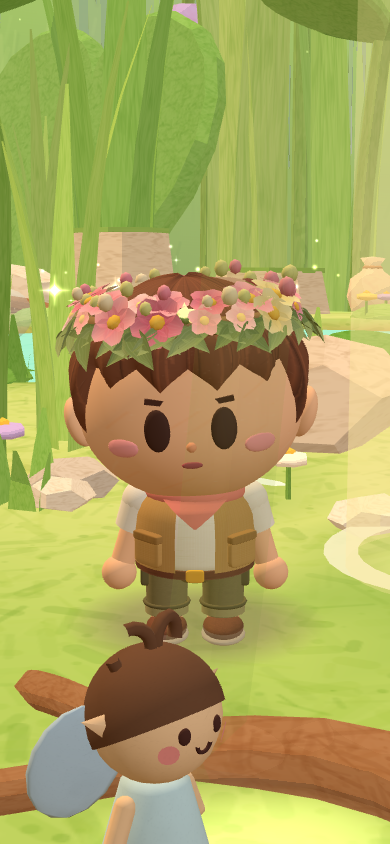
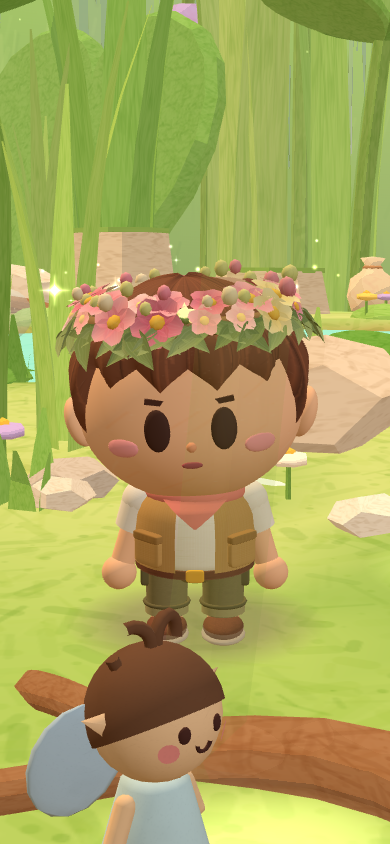
이야기 첫 장 카메라·배경음 이어짐·미션에만 빛 기둥·개미굴 발소리·이슬 모으기 빼기·아기 소금쟁이 새 모습·안내 문구 개미굴 모양
- 이야기 소개 카메라: 잎 지붕 아래에서 마을 전체 → 마을 길 → 물 위에서 선착장(위에서 보면 잎만 보였다)
- 배경음: 같은 곡이면 처음부터 하기로 구역을 다시 만들어도 끊기지 않고 이어짐
- 빛 기둥·이름표는 미션 목적지(사공·이슬배·높은 바위)에만, 클로버는 반짝임만
- 발소리는 개미굴 step 그대로(따로 만든 큰 소리 되돌림)
- 이슬 모으기 돌발 삭제: 클로버를 돌리면 이슬방울이 배에 쏙 → '이슬배가 준비됐어요!' 알림(아무 키·누르기로 닫힘)
- 아기 소금쟁이: 받은 그림대로(연하늘 달걀 몸·청록 마디 다리·발밑 물결), 카드·가방 그림 assets/cards/fairy/strider.webp
- 안내 문구·할 일 안내: 어두운 반투명 알약 + Gowun Dodum

diff --git a/index.html b/index.html
@@ -118,65 +118,65 @@ body.wl-world .bar .hint:not(#stats){display:none} /* 세계 구역에서는 아
 </div>
 
 <script id="wl-vercheck">fetch('version.json?t='+Date.now(),{cache:'no-store'}).then(r=>r.json()).then(j=>{if(j.v&&j.v!==window.WL_V){const u=new URL(location.href);if(u.searchParams.get('_v')!==j.v){u.searchParams.set('_v',j.v);location.replace(u);}}}).catch(()=>{});</script>
-<script>window.WL_V='29489aedca';</script>
+<script>window.WL_V='8256ad9cbc';</script>
 <script type="importmap">
 {
   "imports": {
     "three": "https://cdn.jsdelivr.net/npm/three@0.186.1/build/three.module.js",
     "three/addons/": "https://cdn.jsdelivr.net/npm/three@0.186.1/examples/jsm/",
-    "./js/01-textures.js": "./js/01-textures.js?v=29489aedca",
-    "./js/02-zone.js": "./js/02-zone.js?v=29489aedca",
-    "./js/03-scene.js": "./js/03-scene.js?v=29489aedca",
-    "./js/04-character.js": "./js/04-character.js?v=29489aedca",
-    "./js/05-hair-headwear.js": "./js/05-hair-headwear.js?v=29489aedca",
-    "./js/06-outfits.js": "./js/06-outfits.js?v=29489aedca",
-    "./js/07-actions.js": "./js/07-actions.js?v=29489aedca",
-    "./js/08-main.js": "./js/08-main.js?v=29489aedca",
-    "./js/09-capture.js": "./js/09-capture.js?v=29489aedca",
-    "./js/game/bend.js": "./js/game/bend.js?v=29489aedca",
-    "./js/game/codex.js": "./js/game/codex.js?v=29489aedca",
-    "./js/game/companion.js": "./js/game/companion.js?v=29489aedca",
-    "./js/game/controls.js": "./js/game/controls.js?v=29489aedca",
-    "./js/game/core.js": "./js/game/core.js?v=29489aedca",
-    "./js/game/course.js": "./js/game/course.js?v=29489aedca",
-    "./js/game/dialog.js": "./js/game/dialog.js?v=29489aedca",
-    "./js/game/events.js": "./js/game/events.js?v=29489aedca",
-    "./js/game/felt.js": "./js/game/felt.js?v=29489aedca",
-    "./js/game/front.js": "./js/game/front.js?v=29489aedca",
-    "./js/game/fx.js": "./js/game/fx.js?v=29489aedca",
-    "./js/game/goal.js": "./js/game/goal.js?v=29489aedca",
-    "./js/game/hud.js": "./js/game/hud.js?v=29489aedca",
-    "./js/game/index.js": "./js/game/index.js?v=29489aedca",
-    "./js/game/interact.js": "./js/game/interact.js?v=29489aedca",
-    "./js/game/items.js": "./js/game/items.js?v=29489aedca",
-    "./js/game/lamps.js": "./js/game/lamps.js?v=29489aedca",
-    "./js/game/music.js": "./js/game/music.js?v=29489aedca",
-    "./js/game/occlude.js": "./js/game/occlude.js?v=29489aedca",
-    "./js/game/profile.js": "./js/game/profile.js?v=29489aedca",
-    "./js/game/ride.js": "./js/game/ride.js?v=29489aedca",
-    "./js/game/sfx-ant.js": "./js/game/sfx-ant.js?v=29489aedca",
-    "./js/game/sky.js": "./js/game/sky.js?v=29489aedca",
-    "./js/game/sound.js": "./js/game/sound.js?v=29489aedca",
-    "./js/game/state.js": "./js/game/state.js?v=29489aedca",
-    "./js/game/synth.js": "./js/game/synth.js?v=29489aedca",
-    "./js/game/title.js": "./js/game/title.js?v=29489aedca",
-    "./js/game/ui.js": "./js/game/ui.js?v=29489aedca",
-    "./js/hoods/crown.js": "./js/hoods/crown.js?v=29489aedca",
-    "./js/zones/basecamp.js": "./js/zones/basecamp.js?v=29489aedca",
-    "./js/zones/fairy/dock.js": "./js/zones/fairy/dock.js?v=29489aedca",
-    "./js/zones/fairy/fairies.js": "./js/zones/fairy/fairies.js?v=29489aedca",
-    "./js/zones/fairy/forest.js": "./js/zones/fairy/forest.js?v=29489aedca",
-    "./js/zones/fairy/music.js": "./js/zones/fairy/music.js?v=29489aedca",
-    "./js/zones/fairy/paint.js": "./js/zones/fairy/paint.js?v=29489aedca",
-    "./js/zones/fairy/world.js": "./js/zones/fairy/world.js?v=29489aedca",
-    "./js/zones/sample-fx.js": "./js/zones/sample-fx.js?v=29489aedca",
-    "./js/zones/sample-indoor.js": "./js/zones/sample-indoor.js?v=29489aedca",
-    "./js/zones/sample-outdoor.js": "./js/zones/sample-outdoor.js?v=29489aedca"
+    "./js/01-textures.js": "./js/01-textures.js?v=8256ad9cbc",
+    "./js/02-zone.js": "./js/02-zone.js?v=8256ad9cbc",
+    "./js/03-scene.js": "./js/03-scene.js?v=8256ad9cbc",
+    "./js/04-character.js": "./js/04-character.js?v=8256ad9cbc",
+    "./js/05-hair-headwear.js": "./js/05-hair-headwear.js?v=8256ad9cbc",
+    "./js/06-outfits.js": "./js/06-outfits.js?v=8256ad9cbc",
+    "./js/07-actions.js": "./js/07-actions.js?v=8256ad9cbc",
+    "./js/08-main.js": "./js/08-main.js?v=8256ad9cbc",
+    "./js/09-capture.js": "./js/09-capture.js?v=8256ad9cbc",
+    "./js/game/bend.js": "./js/game/bend.js?v=8256ad9cbc",
+    "./js/game/codex.js": "./js/game/codex.js?v=8256ad9cbc",
+    "./js/game/companion.js": "./js/game/companion.js?v=8256ad9cbc",
+    "./js/game/controls.js": "./js/game/controls.js?v=8256ad9cbc",
+    "./js/game/core.js": "./js/game/core.js?v=8256ad9cbc",
+    "./js/game/course.js": "./js/game/course.js?v=8256ad9cbc",
+    "./js/game/dialog.js": "./js/game/dialog.js?v=8256ad9cbc",
+    "./js/game/events.js": "./js/game/events.js?v=8256ad9cbc",
+    "./js/game/felt.js": "./js/game/felt.js?v=8256ad9cbc",
+    "./js/game/front.js": "./js/game/front.js?v=8256ad9cbc",
+    "./js/game/fx.js": "./js/game/fx.js?v=8256ad9cbc",
+    "./js/game/goal.js": "./js/game/goal.js?v=8256ad9cbc",
+    "./js/game/hud.js": "./js/game/hud.js?v=8256ad9cbc",
+    "./js/game/index.js": "./js/game/index.js?v=8256ad9cbc",
+    "./js/game/interact.js": "./js/game/interact.js?v=8256ad9cbc",
+    "./js/game/items.js": "./js/game/items.js?v=8256ad9cbc",
+    "./js/game/lamps.js": "./js/game/lamps.js?v=8256ad9cbc",
+    "./js/game/music.js": "./js/game/music.js?v=8256ad9cbc",
+    "./js/game/occlude.js": "./js/game/occlude.js?v=8256ad9cbc",
+    "./js/game/profile.js": "./js/game/profile.js?v=8256ad9cbc",
+    "./js/game/ride.js": "./js/game/ride.js?v=8256ad9cbc",
+    "./js/game/sfx-ant.js": "./js/game/sfx-ant.js?v=8256ad9cbc",
+    "./js/game/sky.js": "./js/game/sky.js?v=8256ad9cbc",
+    "./js/game/sound.js": "./js/game/sound.js?v=8256ad9cbc",
+    "./js/game/state.js": "./js/game/state.js?v=8256ad9cbc",
+    "./js/game/synth.js": "./js/game/synth.js?v=8256ad9cbc",
+    "./js/game/title.js": "./js/game/title.js?v=8256ad9cbc",
+    "./js/game/ui.js": "./js/game/ui.js?v=8256ad9cbc",
+    "./js/hoods/crown.js": "./js/hoods/crown.js?v=8256ad9cbc",
+    "./js/zones/basecamp.js": "./js/zones/basecamp.js?v=8256ad9cbc",
+    "./js/zones/fairy/dock.js": "./js/zones/fairy/dock.js?v=8256ad9cbc",
+    "./js/zones/fairy/fairies.js": "./js/zones/fairy/fairies.js?v=8256ad9cbc",
+    "./js/zones/fairy/forest.js": "./js/zones/fairy/forest.js?v=8256ad9cbc",
+    "./js/zones/fairy/music.js": "./js/zones/fairy/music.js?v=8256ad9cbc",
+    "./js/zones/fairy/paint.js": "./js/zones/fairy/paint.js?v=8256ad9cbc",
+    "./js/zones/fairy/world.js": "./js/zones/fairy/world.js?v=8256ad9cbc",
+    "./js/zones/sample-fx.js": "./js/zones/sample-fx.js?v=8256ad9cbc",
+    "./js/zones/sample-indoor.js": "./js/zones/sample-indoor.js?v=8256ad9cbc",
+    "./js/zones/sample-outdoor.js": "./js/zones/sample-outdoor.js?v=8256ad9cbc"
   }
 }
 </script>
 <!-- 08-main.js가 01~07을 번호 순서대로 import한다. 버전(?v=)과 위 importmap의 js 줄은 tools/stamp.py가 쓴다 -->
-<script type="module" src="js/08-main.js?v=29489aedca"></script>
+<script type="module" src="js/08-main.js?v=8256ad9cbc"></script>
 
 </body>
 </html>

diff --git a/js/zones/fairy/fairies.js b/js/zones/fairy/fairies.js
@@ -185,24 +185,34 @@ function ladybug(){const root=new THREE.Group();root.name='fairy:ladybug';const 
   [-1,1].forEach(s=>{const e=mesh(new THREE.TorusGeometry(.012,.004,4,8,PI),wh,head,s*.025,.02,.05);e.rotation.z=PI;});
   root.traverse(o=>{if(o.isMesh)o.castShadow=false;});
   return {root,tick(dt,t){body.scale.y=1+Math.sin(t*1.6)*.03;}};}
-/* 아기 소금쟁이(숨겨진 비밀, 2026-11-03): 물 위에 서는 가늘고 긴 다리 여섯, 길쭉한 갈색 몸, 큰 점 눈·볼터치. 길이 약 0.5m(원더룹보다 훨씬 작다).
-   strider() → {root, tick(dt,t)} — 앞다리로 물을 톡톡(인사), 몸이 살짝 미끄러졌다 돌아온다. 발 끝은 y=0(물 면) */
-function strider(){const root=new THREE.Group();root.name='fairy:strider';const body=new THREE.Group();root.add(body);body.position.y=.13;
-  const bm=mat('#9a7350'),dk=mat('#6e4e34'),ink=mat(INK,'plain'),pink=mat(CHEEK,'plain'),wh=mat('#fffaf0','plain');
-  const torso=mesh(new THREE.SphereGeometry(.07,12,9),bm,body,0,0,-.05);torso.scale.set(.85,.7,2.1);
-  const head=mesh(new THREE.SphereGeometry(.062,14,10),bm,body,0,.02,.11);
-  [-1,1].forEach(sx=>{const e=mesh(new THREE.SphereGeometry(.026,10,8),wh,head,sx*.034,.026,.03);mesh(new THREE.SphereGeometry(.016,8,6),ink,e,0,.002,.015);
-    const c=mesh(new THREE.CircleGeometry(.013,10),pink,head,sx*.045,-.012,.042);c.lookAt(c.position.clone().multiplyScalar(3).add(head.getWorldPosition(new THREE.Vector3())));});
-  [-1,1].forEach(sx=>{const a=mesh(new THREE.CylinderGeometry(.004,.004,.09,5),dk,head,sx*.018,.07,.0);a.rotation.z=-sx*.35;a.rotation.x=-.4;});
-  const legs=[];const L=[[.08,.2,.5],[0,.32,.05],[-.11,.34,-.45]]; // [몸 z, 길이, 펼침 각]
-  L.forEach(([z,len,ay],i)=>[-1,1].forEach(sx=>{const piv=new THREE.Group();piv.position.set(sx*.04,0,z);body.add(piv);
-    const up=mesh(new THREE.CylinderGeometry(.006,.005,len*.45,5).translate(0,len*.225,0),dk,piv);up.rotation.z=-sx*1.0;
-    const knee=new THREE.Group();knee.position.set(sx*Math.sin(1.0)*len*.45,Math.cos(1.0)*len*.45,0);piv.add(knee);
-    const lo=mesh(new THREE.CylinderGeometry(.005,.003,len*.75,5).translate(0,-len*.375,0),dk,knee);lo.rotation.z=sx*1.12;
-    const foot=mesh(new THREE.SphereGeometry(.012,6,4),dk,knee,sx*Math.sin(1.12)*len*.75,-Math.cos(1.12)*len*.75,0);foot.scale.y=.4;
-    piv.rotation.y=sx*ay;legs.push({piv,sx,i});}));
+/* 아기 소금쟁이(숨겨진 비밀, 2026-11-03 — 받은 그림 그대로: 연하늘 달걀 몸·점 눈·볼터치·웃는 입, 청록 마디 다리 여섯·끝에 동그란 발, 발밑 물결).
+   strider() → {root, tick(dt,t)} — 앞다리 하나를 들어 톡톡(인사), 몸이 살짝 위아래로, 발밑 물결이 퍼진다. 몸 폭 약 0.34m, 다리 끝까지 약 0.8m. 발 끝 y=0(물 면), 얼굴 앞 +z */
+function strider(){const root=new THREE.Group();root.name='fairy:strider';const body=new THREE.Group();root.add(body);body.position.y=.27;
+  const bm=mat('#cfe3ea'),lg=mat('#8fbab6'),ink=mat('#4a2a24','plain'),pink=mat(CHEEK,'plain');
+  const r=.17;const torso=mesh(new THREE.SphereGeometry(r,18,14),bm,body);torso.scale.set(1.05,.86,1);
+  const onF=(x,y)=>{const z=Math.sqrt(Math.max(0,r*r-x*x-y*y));return new THREE.Vector3(x,y*.86,z);};
+  const stick=(m,p,out=.004)=>{m.position.copy(p).add(p.clone().normalize().multiplyScalar(out));m.lookAt(m.position.clone().multiplyScalar(2));torso.add(m);m.castShadow=false;return m;};
+  const tf=new THREE.Group();torso.add(tf);tf.scale.set(1/1.05,1/.86,1); // 얼굴 조각은 몸 늘임을 되돌려 동그랗게
+  const st2=(m,p,out)=>{const q=onF(p[0],p[1]);m.position.set(q.x*1.05,q.y,q.z).add(new THREE.Vector3(q.x,q.y,q.z).normalize().multiplyScalar(out));m.lookAt(m.position.clone().multiplyScalar(2));tf.add(m);m.castShadow=false;return m;};
+  [-1,1].forEach(s=>{const e=st2(new THREE.Mesh(new THREE.SphereGeometry(.024,10,8),ink),[s*.062,.03],-.006);e.scale.z=.5;});
+  [-1,1].forEach(s=>st2(new THREE.Mesh(new THREE.CircleGeometry(.03,14),pink),[s*.1,-.02],.006));
+  {const m=st2(new THREE.Mesh(new THREE.TorusGeometry(.03,.007,6,12,PI),ink),[0,-.03],.002);m.rotateZ(PI);}
+  const legs=[];const L=[[.07,.55],[0,1.57],[-.07,2.55]]; // [몸 z, 옆으로 펼치는 각(앞→뒤)]
+  L.forEach(([z,ay],i)=>[-1,1].forEach(sx=>{const piv=new THREE.Group();piv.position.set(sx*.13,-.02,z);body.add(piv);
+    piv.rotation.y=sx>0?-(Math.PI/2-ay):(Math.PI/2-ay); // 바깥쪽으로 펼침
+    const up=mesh(new THREE.CapsuleGeometry(.014,.17,3,6).translate(0,.085,0),lg,piv);up.rotation.z=-sx*.95;
+    const knee=new THREE.Group();knee.position.set(sx*Math.sin(.95)*.17,Math.cos(.95)*.17,0);piv.add(knee);
+    const LO=.37,lo=mesh(new THREE.CapsuleGeometry(.012,LO,3,6).translate(0,-LO/2,0),lg,knee);lo.rotation.z=sx*.42; // 무릎(약 0.35m)에서 물 면까지
+    const foot=mesh(new THREE.SphereGeometry(.024,8,6),lg,knee,sx*Math.sin(.42)*LO,-Math.cos(.42)*LO-.01,0);
+    legs.push({piv,knee,up,sx,i});}));
+  // 발밑 물결: 얇은 고리 여섯(흰색, 반투명) — 천천히 퍼졌다 사라짐
+  const ringMat=new THREE.MeshBasicMaterial({color:0xffffff,transparent:true,opacity:.6,depthWrite:false});const rings=[];
+  root.updateMatrixWorld(true);legs.forEach((l,j)=>{const p=new THREE.Vector3();l.knee.children[1].getWorldPosition(p);root.worldToLocal(p);
+    const g=new THREE.Mesh(new THREE.RingGeometry(.03,.04,18).rotateX(-PI/2),ringMat.clone());g.position.set(p.x,.01,p.z);g.userData.ph=j*.37;root.add(g);rings.push(g);});
   root.traverse(o=>{if(o.isMesh)o.castShadow=false;});
-  return {root,tick(dt,t){const k=Math.sin(t*5);legs.forEach(l=>{if(l.i===0)l.piv.rotation.x=-Math.max(0,k)*.35*(l.sx>0?1:.4);});body.position.y=.13+Math.sin(t*2.4)*.006;
-    root.position.x+=Math.sin(t*.9)*.0015;body.rotation.y=Math.sin(t*.7)*.12;}};}
+  const wave=legs.find(l=>l.i===0&&l.sx<0); // 왼쪽 앞다리로 톡톡 인사
+  return {root,tick(dt,t){body.position.y=.27+Math.sin(t*2.4)*.008;
+    if(wave){const k=Math.max(0,Math.sin(t*3));wave.up.rotation.z=wave.sx*-.95-wave.sx*.6*k;wave.knee.rotation.z=-wave.sx*.4*k;}
+    rings.forEach(g=>{const u=((t*.6+g.userData.ph)%1);g.scale.setScalar(1+u*2.2);g.material.opacity=.55*(1-u);});}};}
 function clearFairyCache(){for(const k in vmats){vmats[k].dispose();delete vmats[k];}if(vTex){vTex.dispose();vTex=null;}for(const k in mats){mats[k].dispose();delete mats[k];}if(capTex){capTex.dispose();capTex=null;}if(gillTex){gillTex.dispose();gillTex=null;}}
 export {bakeFairy,clearFairyCache,dandelionPuff,dewBoat,fairy,ladybug,leafBoat,strider,villager};

diff --git a/js/game/ui.js b/js/game/ui.js
@@ -36,8 +36,9 @@ const css=`
 #wlGet img{width:48px;height:48px;object-fit:contain;filter:drop-shadow(0 0 .7px #7a5236) drop-shadow(0 0 .7px #7a5236)}#wlGet img:not([src]){display:none}
 #wlGet .t{margin:0;font-size:1.2rem;font-family:"Jua",sans-serif}
 #wlGet .s{margin:.2rem 0 0;font-size:.9rem;color:var(--ink-soft)}
-#wlToast{--fd:3px;font-family:"Jua","Gowun Dodum",sans-serif;position:fixed;left:50%;top:calc(env(safe-area-inset-top,0px) + 70px);transform:translate(-50%,-10px);opacity:0;transition:opacity .3s,transform .3s;pointer-events:none;z-index:22;
-  background:var(--chip);color:var(--chip-ink);border-radius:999px;padding:.45rem .9rem;font-size:.9rem;margin:0;backdrop-filter:blur(6px);-webkit-backdrop-filter:blur(6px);white-space:nowrap}
+/* 안내 문구: 개미굴 #toast처럼 어두운 반투명 알약 + 크림색 Gowun Dodum(2026-11-03 — 펠트 테두리는 너무 튀었다) */
+#wlToast{font-family:"Gowun Dodum","Apple SD Gothic Neo",sans-serif;position:fixed;left:50%;top:calc(env(safe-area-inset-top,0px) + 70px);transform:translate(-50%,-10px);opacity:0;transition:opacity .3s,transform .3s;pointer-events:none;z-index:22;
+  background:rgba(46,28,44,.72);color:#fff4e4;border-radius:999px;padding:.5rem 1.15rem;font-size:1rem;margin:0;backdrop-filter:blur(6px);-webkit-backdrop-filter:blur(6px);white-space:nowrap;box-shadow:none}
 #wlToast.on{opacity:1;transform:translate(-50%,0)}
 #wlNotice .s{margin:0;color:var(--ink-soft);line-height:1.55;font-size:.95rem}
 #wlNotice .h{margin:.5rem 0 0;font-size:.8rem;color:var(--ink-soft)}
@@ -51,7 +52,7 @@ const css=`
 #wlQuest,#wlPrompt{position:fixed;left:50%;transform:translateX(-50%);background:var(--panel);color:var(--ink);box-shadow:0 4px 14px rgba(30,14,36,.22);border-radius:999px;padding:.4rem 1rem;font-size:1rem;font-family:"Jua","Gowun Dodum",sans-serif;--fd:3px;
   backdrop-filter:blur(6px);-webkit-backdrop-filter:blur(6px);display:none;z-index:15;white-space:nowrap}
 #wlQuest .wl-arrow{display:inline-block;margin-right:.5rem;color:#ffd23f;transition:transform .15s linear} /* 가야 할 쪽 화살표(game/goal) */
-#wlQuest{top:calc(env(safe-area-inset-top,0px) + 14px);margin:0;padding:.45rem .95rem;font-size:.98rem;background:rgba(46,28,44,.66);color:#fff4e4;box-shadow:none;border-radius:999px;line-height:1.35}
+#wlQuest{top:calc(env(safe-area-inset-top,0px) + 14px);margin:0;padding:.45rem .95rem;font-size:.98rem;font-family:"Gowun Dodum","Apple SD Gothic Neo",sans-serif;background:rgba(46,28,44,.66);color:#fff4e4;box-shadow:none;border-radius:999px;line-height:1.35}
 @media (max-width:700px){#wlQuest{left:calc(env(safe-area-inset-left,0px) + 14px);right:calc(env(safe-area-inset-right,0px) + 14px);transform:none;white-space:normal;text-align:center;box-sizing:border-box}body.wl-dev #wlQuest{left:calc(env(safe-area-inset-left,0px) + 76px)}} /* 휴대폰: 왼쪽 끝부터 오른쪽 끝까지(개미굴처럼 줄바꿈), ?debug 면 톱니 옆부터 */
 #wlPrompt{bottom:calc(env(safe-area-inset-bottom,0px) + 112px);font-size:1.2rem;padding:.5rem 1.25rem .55rem}
 #wlPrompt.wl-felt:not(#wl_a):not(#wl_b)::before{display:none} /* 'E 말 걸기' 안내: 점선 없이 조금 크게 */
@@ -116,7 +117,7 @@ body.wl-nohints .wl-hint{visibility:hidden!important}
 const root=document.createElement('div');root.className='wlg';
 root.innerHTML=`<div id="wlDlg" class="wl-felt" role="dialog" aria-live="polite"><span class="who wl-tape mint wl-mk"></span><p class="line"></p><p class="more"></p></div>
 <div id="wlNotice" class="wl-felt" role="alert"><img alt=""><div><p class="k">미션</p><p class="t"></p><p class="s"></p><p class="h"></p></div></div>
-<div id="wlGet" class="wl-felt" role="status" aria-live="polite"><span class="ic"><img alt=""></span><div><p class="t"></p><p class="s"></p></div></div><p id="wlToast" class="wl-hint wl-felt" role="status" aria-live="polite"></p>
+<div id="wlGet" class="wl-felt" role="status" aria-live="polite"><span class="ic"><img alt=""></span><div><p class="t"></p><p class="s"></p></div></div><p id="wlToast" class="wl-hint" role="status" aria-live="polite"></p>
 <div id="wlProf" role="dialog" aria-modal="true" aria-label="새 친구"><div class="dcard"><p class="k">새 친구</p><span class="ic"><img alt=""></span><h2 class="t"></h2><p class="s"></p><p class="l"></p><p class="q"></p><p class="n"></p><button type="button">반가워요!</button></div></div>
 <div id="wlSecret" role="dialog" aria-live="polite"><div class="card"><i class="tw" style="--x:8%;--y:6%;--d:0s"></i><i class="tw" style="--x:93%;--y:14%;--d:.7s"></i><i class="tw" style="--x:5%;--y:62%;--d:1.3s"></i><i class="tw" style="--x:95%;--y:78%;--d:.35s"></i><i class="tw" style="--x:50%;--y:2%;--d:1.8s"></i><p class="k"></p><img alt=""><h2></h2><p class="f"></p><p class="n"></p><button type="button">좋아요</button></div></div>
 <div id="wlResult" role="dialog" aria-live="polite"><div class="card wl-felt"><h2></h2><p></p><p class="sec"></p><button class="b1" type="button"></button><button class="b2" type="button"></button></div></div>

diff --git a/js/game/sound.js b/js/game/sound.js
@@ -72,21 +72,22 @@ function voice(v){const dur=LEN[v.id]||estimate(v.text);const sp={end:clock.t+du
   const c=cue({kind:v.kind||'dialogue',id:v.id||null,file:SRC[v.id]||null,text:v.text||'',who:v.who||'',dur:+dur.toFixed(3)});
   return {dur,end:clock.t+dur,cue:c,stop(){SPEAK.delete(sp);if(src)try{src.stop();}catch(e){}if(S.tts)try{speechSynthesis.cancel();}catch(e){}if(clock.t<c.t+dur-1e-3)c.cut=+(clock.t-c.t).toFixed(4);}};} // 다 끝난 뒤 멈추면 끊김 아님
 /* 배경음 (구역마다 하나) */
-let want=null,B=null; // want: 틀어야 할 배경음 {id,gain,fade,cue}, B: 지금 울리는 것 {id,g,src|h}
+let want=null,B=null,nullT=0; // want: 틀어야 할 배경음 {id,gain,fade,cue}, B: 지금 울리는 것 {id,g,src|h}
 function bedCue(w){return cue({kind:'music',id:w.id,file:SRC[w.id]||null,dur:0,loop:true,...(!BUF[w.id]&&SYN[w.id]?{synth:true}:{})});}
 function fadeOut(sec){if(!B)return;const b=B;B=null;const c=ctx,now=c.currentTime;b.g.gain.cancelScheduledValues(now);b.g.gain.setValueAtTime(b.g.gain.value,now);b.g.gain.linearRampToValueAtTime(0,now+sec);
   setTimeout(()=>{try{if(b.src)b.src.stop();if(b.h)b.h.stop();b.g.disconnect();}catch(e){}},sec*1000+100);}
 function bed(id,o={}){if((want&&want.id)===(id||undefined))return;
   if(want)want.cue.dur=+(clock.t-want.cue.t).toFixed(3);
   want=id?{id,gain:o.gain??1,fade:o.fade??1.5}:null;if(want){want.cue=bedCue(want);if(SRC[id]&&!BUF[id])load(id);}
-  if(B)fadeOut(o.fade??1.2);}
+  nullT=0;} // 바로 끄지 않는다 — 같은 곡을 곧 다시 틀면(처음부터 다시 하기로 구역을 다시 만들 때) 끊김 없이 이어지게(2026-11-03). 끄는 건 tickBed가
 function tickBed(dt){
   if(want){if(!cues.includes(want.cue))want.cue=bedCue(want); // 영상 캡처가 녹화 시작 때 기록을 비우면 그 시점부터 다시
     want.cue.dur=+(clock.t-want.cue.t).toFixed(3);}
   if(!awake())return;const c=ctx;
   {let talk=false;SPEAK.forEach(sp=>{if(clock.t<sp.end)talk=true;else SPEAK.delete(sp);}); // 목소리가 나오는 동안 배경음 40%
    const g=(talk?.4:1)*.5;if(Math.abs(musicBus.gain.value-g)>.002&&musicBus.duckTo!==g){musicBus.duckTo=g;musicBus.gain.setTargetAtTime(g,c.currentTime,talk?.12:.25);}}
-  if(B&&(!want||B.id!==want.id))fadeOut(1.2);
+  if(!want)nullT+=dt;
+  if(B&&((!want&&nullT>.8)||(want&&B.id!==want.id)))fadeOut(1.2); // 곡이 없어진 뒤 0.8초 기다렸다가(구역을 다시 만드는 사이)
   if(want&&!B){const b=BUF[want.id],y=SYN[want.id];if(!b&&!(y&&y.bed))return;
     const g=c.createGain(),now=c.currentTime;g.gain.setValueAtTime(0,now);g.gain.linearRampToValueAtTime(want.gain,now+want.fade);g.connect(musicBus);B={id:want.id,g};
     if(b){const s=c.createBufferSource();s.buffer=b;s.loop=true;s.connect(g);s.start();B.src=s;}else B.h=y.bed(c,g);}

diff --git a/js/zones/fairy/world.js b/js/zones/fairy/world.js
@@ -55,7 +55,7 @@ export const WATER=[{c:'#8fdcd3',e:'#4fb5b2',ei:.14},{c:'#8cbcb8',e:'#f0a088',ei
 export const FAIRY_CARDS={
   boatman:{name:'사공 요정',intro:'선착장에서 이슬배를 모는 뱃사공. 물길이라면 눈 감고도 알아요.',likes:'바람 없는 아침의 잔잔한 물길',quote:'이슬배는 천천히 가야 제맛이란다!',img:card('boatman'),bg:'#d8e9f6'},
   mushroom:{name:'버섯 요정',intro:'축제 소식을 제일 먼저 알려 주는 마을 안내 요정.',likes:'비 온 다음 날의 축축한 흙',quote:'보이는 건 모자뿐이야. 진짜 내 몸은 땅속에 길게길게 뻗어 있거든!',img:card('mushroom'),bg:'#fbe0c8'},
-  strider:{name:'아기 소금쟁이',intro:'물 위 걷기를 연습 중인 수줍은 아기. 아직 가끔 미끄러져요.',likes:'연잎 그늘 아래 조용한 물',quote:'톡톡톡! 물결로 하는 인사, 너도 할 줄 알지?',img:null,bg:'#fbf0bf',secret:true,portrait:{side:.5,lift:.9}}, // 숨겨진 비밀 장면을 마친 뒤 meet('strider', 그 모델)
+  strider:{name:'아기 소금쟁이',intro:'물 위 걷기를 연습 중인 수줍은 아기. 아직 가끔 미끄러져요.',likes:'연잎 그늘 아래 조용한 물',quote:'톡톡톡! 물결로 하는 인사, 너도 할 줄 알지?',img:card('strider'),bg:'#dcecf0',secret:true}, // 숨겨진 비밀 장면을 마친 뒤 meet('strider', 그 모델)
   ladybug:{name:'낮잠 무당벌레',intro:'축제 전에 클로버 그늘에서 한숨 자 두는 중. 깨면 바로 날아갈 수 있어요.',likes:'햇볕 든 클로버 잎 뒤',quote:'음냐… 첫별 뜨면 깨워 줘…',img:null,bg:'#fbd9d2',secret:true,portrait:{side:.5,lift:.8}},
 };
 FAIRY_WORLD.front=FAIRY_FRONT; // 게임 첫 화면(game/front)

diff --git a/js/game/sfx-ant.js b/js/game/sfx-ant.js
@@ -45,8 +45,6 @@ const S={
   tremble:[1.02,(c,t,D)=>{for(let i=0;i<14;i++)tone(c,'sine',mf(96+(i%2?2:0)),t+.25+i*.055,.09,.022*(1-i/16),D);[84,88].forEach((m,i)=>bell(c,m,t+i*.1,1.1,.045,D));}],
   chime:[1.16,(c,t,D)=>[84,79,88].forEach((m,i)=>bell(c,m,t+i*.08,1,.05,D))],
   thunder:[3,(c,t,D)=>{rumbleBurst(c,t,3,D);noise(c,t,.5,.5,D,'lowpass',380,.7,90);tone(c,'sine',38,t,2.5,.3,D);}],
-  // 원더룹 전용(2026-11-03, 개미굴에 없던 소리): 걸음마다 부드러운 발소리 — 개미굴 step(아주 작은 사각 잡음)은 배경음에 묻혀 안 들렸다. 낮은 '통' + 풀 스치는 소리, 걸음마다 높낮이가 조금씩
-  footstep:[.12,(c,t,D)=>{const f=rr(105,135);tone(c,'sine',f,t,.08,.11,D,{slide:f*.6,a:.004});noise(c,t,.07,.09,D,'lowpass',rr(900,1300),.9,350);noise(c,t+.01,.05,.035,D,'bandpass',rr(2600,3400),1.4);}],
   pop:[.5,(c,t,D)=>{tone(c,'sine',480,t,.14,.16,D,{slide:1150});[76,79,84].forEach((m,i)=>tone(c,'triangle',mf(m),t+.12+i*.08,.22,.09,D));}],
 };
 const ANT={};for(const k in S){const [dur,fn]=S[k];ANT[k]={dur,play(c,out){fn(c,c.currentTime,out);}};}

diff --git a/js/07-actions.js b/js/07-actions.js
@@ -279,7 +279,7 @@ function updateWL(dt,t){
     GY=V.y;}
   unstick(dt,H);
   V.px=X;V.pz=Z;
-  if(moving){const s0=Math.floor(wlPhase/PI);wlPhase+=dt*(SHOTM?11:16)*(D.spd>.05&&!wlTarget?Math.min(1.8,D.spd/DRV.walk):(WL.userData.action==='뛰기'?1.6:1));if(Math.floor(wlPhase/PI)!==s0&&!V.air&&!WL.userData.riding)sfx('footstep',{cue:false,minor:true});} // 발이 땅에 닿을 때마다 (개미굴 step)
+  if(moving){const s0=Math.floor(wlPhase/PI);wlPhase+=dt*(SHOTM?11:16)*(D.spd>.05&&!wlTarget?Math.min(1.8,D.spd/DRV.walk):(WL.userData.action==='뛰기'?1.6:1));if(Math.floor(wlPhase/PI)!==s0&&!V.air&&!WL.userData.riding)sfx('step',{cue:false,minor:true});} // 발이 땅에 닿을 때마다 (개미굴 step)
   const sw=moving?Math.sin(wlPhase):0;
   legs[0].position.y=0.3+Math.max(0,sw)*0.08;legs[1].position.y=0.3+Math.max(0,-sw)*0.08;
   legs[0].rotation.x=sw*0.5;legs[1].rotation.x=-sw*0.5;

diff --git a/CLAUDE.md b/CLAUDE.md
@@ -97,8 +97,9 @@
   - **캐릭터 소개 카드**는 개미굴 '새 도감 카드' 모양(가운데, 뒤 어둡게, 동그라미 그림·이름·소개·좋아하는 것·한마디·'만난 친구 n/m'·'가방에 넣기' 단추로 닫힘 — 촬영 모드만 저절로).
   - **숨겨진 비밀**: 선착장 서쪽 강가 연잎 그늘의 아기 소금쟁이(`fairies.js strider`) — 6.5m 안이면 위에 금빛 ✦ 반짝임, 물가 1.7m 안이면 금빛 비밀 카드(둘레 별 다섯 반짝임·카드 빛 숨쉼), `profile.found`로 가방에.
   - **마을 주민 요정** (2026-11-03, 개미굴 마을처럼 북적이게 — `fairies.js villager(kind,{petal,dress,hair,cap})` 꽃·바람·꼬마 버섯, dock.js `VILL`): 여덟(강 이쪽 여섯·건너편 둘). 걷기(a↔b 오가며 끝에서 쉼)·수다(마주 보기)·물가 구경, 원더룹이 2m 안이면 멈춰 본다, 모두 한두 마디 대사("…" 말풍선). 흰 천 결 한 장 + 색(vmat) → `bakeFairy(into:body)`로 주민 하나 그리기 1번, 휴대폰은 그림자 무리 하나·카메라 13m 밖은 숨김. 강 이쪽 주민 둘과 이야기하면(0/2) '사공 요정에게 가 봐요'.
-  - **STAGE 01 진행** (개미굴 광장처럼 짧게): 주민 둘과 이야기(0/2) → 사공 → 클로버 셋 → 돌발: 굴러온 큰 이슬방울이 선착장 기둥에 부딪혀 작은 방울 다섯으로 흩어짐 → 모으기(0/5, 0.9m 안이면 저절로 주워져 배로 포물선) → 이슬배 → 우산(가운데 큰 보상 카드 '사공 요정의 선물' + 반짝임) → 바위에서 활공 → 완료 배지 → 결과창 '이슬방울 선착장 통과!'(한 줄 정리·✦ 발견한 비밀 n/2·계속 둘러보기). 숨겨진 비밀 둘(아기 소금쟁이·낮잠 무당벌레). 이야기 소개 카메라는 구역 정보 `storyView`(하늘 → 마을 → 선착장).
-  - 발소리(2026-11-03): 걸음마다 `sfx('footstep')`(낮은 '통' + 풀 스치는 소리, sfx-ant에 원더룹 전용으로 더함 — 개미굴 step은 배경음에 묻혀 안 들렸다). 꼬마 버섯 요정 갓은 테두리를 말아 넣은 두꺼운 양면. 조작법 창은 내용만 스크롤(바느질 점선이 '알겠어요'까지 한 바퀴), 휴대폰 세로 높이 60vh 이하.
+  - **STAGE 01 진행** (개미굴 광장처럼 짧게): 주민 둘과 이야기(0/2) → 사공 → 클로버 셋 → 이슬방울이 굴러와 배에 쏙 → 알림 카드 '이슬배가 준비됐어요!'(아무 키·화면 누르기로 닫힘, 이슬 모으기 돌발은 2026-11-03 사용자 요청으로 뺌) → 이슬배 → 우산(가운데 큰 보상 카드 '사공 요정의 선물' + 반짝임) → 바위에서 활공 → 완료 배지 → 결과창 '이슬방울 선착장 통과!'(한 줄 정리·✦ 발견한 비밀 n/2·계속 둘러보기). 숨겨진 비밀 둘(아기 소금쟁이·낮잠 무당벌레). 이야기 소개 카메라는 구역 정보 `storyView`(잎 지붕 아래에서 마을 전체 → 마을 길 → 물 위에서 선착장 — 위에서 내려다보면 잎만 보였다). 빛 기둥·이름표는 미션 목적지(사공·이슬배·높은 바위)에만 — 주민 이야기하기·클로버(살랑이는 반짝임)에는 없음. 아기 소금쟁이는 받은 그림대로(연하늘 달걀 몸·청록 마디 다리 여섯·발밑 물결), 카드·가방 그림 `assets/cards/fairy/strider.webp`.
+  - 안내 문구(`ui.toast`)·할 일 안내는 개미굴처럼 어두운 반투명 알약 + 크림색 Gowun Dodum(펠트 테두리는 너무 튀었다, 2026-11-03).
+  - 발소리: 개미굴과 같은 `sfx('step')`(따로 만든 큰 발소리는 사용자가 크다고 해서 되돌림, 2026-11-03). 배경음은 같은 곡이면 구역을 다시 만들어도(처음부터 하기) 끊기지 않고 이어진다(sound.bed — 곡이 없어진 뒤 0.8초 기다렸다 끔). 꼬마 버섯 요정 갓은 테두리를 말아 넣은 두꺼운 양면. 조작법 창은 내용만 스크롤(바느질 점선이 '알겠어요'까지 한 바퀴), 휴대폰 세로 높이 60vh 이하.
   - 휴대폰 그리기 횟수(같은 방법으로 비교 — 촬영 모드 14자리 순간 이동 평균): 오늘 전 64.5 → 70.6(주민 약 3·목표 안내 약 3 더함).
   - **걷기 빠르기** (07 `DRV`): 개미굴 영상만큼 걷기 3.4(달리기·대쉬는 같은 비율), 발걸음 16. 기준·동작 촬영(`?shot`, 영상 캡처 빼고)은 예전 1.5 그대로.
   - **스테이지 완료 배지** (`ui.stageBadge({img, stage, next, box, medal, ar})`, 세계 `badge` — 요정의 숲 `FAIRY_BADGE`, `assets/ui/fairy/stage-badge.webp`): 크림색 칸에 "<stage> 탐험 완료!"(Jua·#4a2a2a)와 "다음 목적지: <next>"(Gowun Dodum·연한 갈색), 칸 폭에 맞게 글자를 저절로 줄임. 통통 튀며 나타나고 꽃 메달이 커졌다 돌아오고 반짝이가 흩어짐, success 소리, 3.6초 뒤 0.45초에 걸쳐 사라짐. 카드 자리를 같이 쓰고 막지 않음, 시점 기록 who '완료'. 네 스테이지 모두 이름·다음 목적지만 넘긴다.
